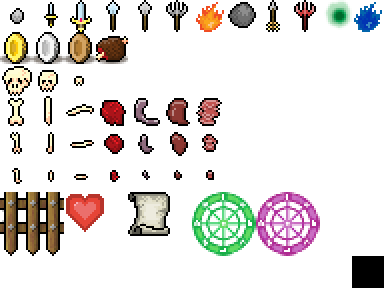
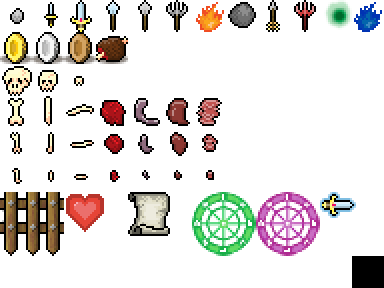
buncha stuff, most obviously: title screen menu

Changed region(s): [[0.8125, 0.6562, 0.9375, 0.7812], [0.9062, 0.0, 1.0, 0.125]]

diff --git a/htdocs/js/engine.js b/htdocs/js/engine.js
@@ -1,11 +1,14 @@
 (function define_horde_Engine () {
 
 const VERSION = 0.3;
+const DEMO = false;
 const DIFFICULTY_INCREMENT = 0.5;
 const NUM_GATES = 3;
 const SCREEN_WIDTH = 640;
 const SCREEN_HEIGHT = 480;
 const GATE_CUTOFF_Y = 64;
+const POINTER_Y_INC = 24;
+const POINTER_Y_START = 280;
 
 /**
  * Creates a new Engine object
@@ -30,6 +33,13 @@ horde.Engine = function horde_Engine () {
 	this.gateState = "down"; // "up" or "down"
 	this.gatesX = 0;
 	this.gatesY = 0;
+	this.pointerY = POINTER_Y_START;
+
+	if (typeof(Titanium) == "undefined") {
+		this.maxPointerY = (this.pointerY + (POINTER_Y_INC * 2));
+	} else {
+		this.maxPointerY = (this.pointerY + (POINTER_Y_INC * 3));
+	}
 	
 	this.targetReticle = {
 		angle: 0,
@@ -177,6 +187,7 @@ proto.initSound = function horde_Engine_proto_initSound () {
 		s.create("normal_battle_music", "sound/music/normal_battle.mp3", true, 20);
 		s.create("final_battle_music", "sound/music/final_battle.mp3", true, 20);
 
+		s.create("move_pointer", "sound/effects/chest_damage.mp3");
 		s.create("eat_food", "sound/effects/chest_food.mp3");
 		s.create("coins", "sound/effects/chest_gold.mp3");
 		s.create("chest_opens", "sound/effects/chest_opens.mp3");
@@ -911,28 +922,69 @@ proto.handleInput = function horde_Engine_proto_handleInput () {
 	}
 
 	if (this.state === "title") {
+
+		// ZOMG INFINITE TRIDENTS!!!111!!
 		if (!this.konamiEntered && this.keyboard.historyMatch(horde.Keyboard.konamiCode)) {
 			horde.sound.play("chest_opens");
 			this.konamiEntered = true;
+
+			var p = this.getPlayerObject();
+			p.addWeapon("h_trident", null);
 		}
+
 		if (this.keyboard.isKeyPressed(32)) {
+
 			this.keyboard.keyStates[32] = false;
-			if (this.konamiEntered) {
-				// ZOMG INFINITE TRIDENTS!!!111!!
-				var p = this.getPlayerObject();
-				p.addWeapon("h_trident", null);
-			}
 			this.state = "how_to_play";
+
+			switch (this.pointerY) {
+				case POINTER_Y_START:
+					horde.sound.play("normal_battle_music");
+					this.state = "running";
+					break;
+				case (POINTER_Y_START + POINTER_Y_INC):
+					this.state = "how_to_play";
+					break;
+				case (POINTER_Y_START + POINTER_Y_INC*2):
+					this.state = "credits";
+					break;
+				case (POINTER_Y_START + POINTER_Y_INC*3):
+					console.log("Look up how to close an app in Titanium!");
+					break;
+			}
+
 		}
+
+		if (
+			this.keyboard.isKeyPressed(keys.W)
+			|| this.keyboard.isKeyPressed(keys.UP)
+		) {
+			this.keyboard.keyStates[keys.W] = false;
+			this.keyboard.keyStates[keys.UP] = false;
+			this.pointerY -= POINTER_Y_INC;
+			if (this.pointerY < POINTER_Y_START) this.pointerY = this.maxPointerY;
+			horde.sound.play("move_pointer");
+		}
+		if (
+			this.keyboard.isKeyPressed(keys.S)
+			|| this.keyboard.isKeyPressed(keys.DOWN)
+		) {
+			this.keyboard.keyStates[keys.S] = false;
+			this.keyboard.keyStates[keys.DOWN] = false;
+			this.pointerY += POINTER_Y_INC;
+			if (this.pointerY > this.maxPointerY) this.pointerY = POINTER_Y_START;
+			horde.sound.play("move_pointer");
+		}
+
 		this.keyboard.storeKeyStates();
 		return;
+
 	}
 
 	if (this.state === "how_to_play") {
 		if (this.keyboard.isKeyPressed(32)) {
 			this.keyboard.keyStates[32] = false;
-			horde.sound.play("normal_battle_music");
-			this.state = "running";
+			this.state = "title";
 		}
 	}
 
@@ -1338,9 +1390,10 @@ proto.drawTargetReticle = function horde_Engine_proto_drawTargetReticle (ctx) {
 	ctx.globalAlpha = 0.50;
 	ctx.translate(this.mouse.mouseX, this.mouse.mouseY);
 	ctx.rotate(this.targetReticle.angle);
-	ctx.drawImage(this.images.getImage("objects"),
-			256, 192, 64, 64,
-			-32, -32, 64, 64
+	ctx.drawImage(
+		this.images.getImage("objects"),
+		256, 192, 64, 64,
+		-32, -32, 64, 64
 	);
 	ctx.restore();
 };
@@ -1447,11 +1500,30 @@ proto.drawTitle = function horde_Engine_proto_drawTitle (ctx) {
 	ctx.restore();
 	
 	ctx.save();
-	ctx.globalAlpha = this.titleAlpha;
 	ctx.fillStyle = "rgb(0, 0, 0)";
-	ctx.font = "Bold 35px Monospace";
+	ctx.font = "Bold 24px Monospace";
 	ctx.textAlign = "left";
-	ctx.fillText("Press space to play", 110, 300);
+
+	var textX = 240;
+	var textY = POINTER_Y_START;
+
+	ctx.fillText("Play!", textX, textY);
+	ctx.fillText("How to play", textX, (textY + POINTER_Y_INC));
+	ctx.fillText("Credits", textX, (textY + POINTER_Y_INC*2));
+	if (typeof(Titanium) != "undefined") {
+		ctx.fillText("Exit", textX, (textY + POINTER_Y_INC*3));
+	}
+	ctx.restore();
+
+	// Sword pointer
+	ctx.save();
+	//ctx.globalAlpha = this.titleAlpha;
+	ctx.drawImage(
+		this.images.getImage("objects"),
+		320, 192, 36, 26,
+		(textX - 48), (this.pointerY - 20),
+		36, 26
+	);
 	ctx.restore();
 
 };

diff --git a/htdocs/js/sound.js b/htdocs/js/sound.js
@@ -59,7 +59,6 @@ horde.sound.create = function horde_sound_create (id, url, loops, volume) {
 			audio.preload = "auto";
 			audio.src = url;
 			if (loops) {
-				audio.loops = true; // This is a hack to get resumeAll to work
 				audio.addEventListener('ended', function () {
 					this.currentTime = 0;
 					this.play();
@@ -99,9 +98,11 @@ horde.sound.play = function horde_sound_play (id) {
 			soundManager.play(id);
 			break;
 		case "html5":
-			sounds[id].pause();
-			sounds[id].currentTime = 0;
-			sounds[id].play();
+			try {
+				sounds[id].pause();
+				sounds[id].currentTime = 0;
+				sounds[id].play();
+			} catch (e) {}
 			break;
 		case "Titanium":
 			if (sounds[id].isPlaying()) {

diff --git a/README.md b/README.md
@@ -4,11 +4,10 @@ Onslaught! is a quick and simple game originally created for the ["Games Inspire
 
 ## Credits
 
-**Design:** Geoff Blair, Matt Hackett
+**Design:** Geoff Blair, [Matt Hackett](http://richtaur.com/)
 
 **Programming:** Geoff Blair, Matt Hackett
 
 **Art:** Matt Hackett
 
-**Music & Sound Effects:** Joshua Morse
- 
+**Music & Sound Effects:** [Joshua Morse](http://jmflava.com/)
